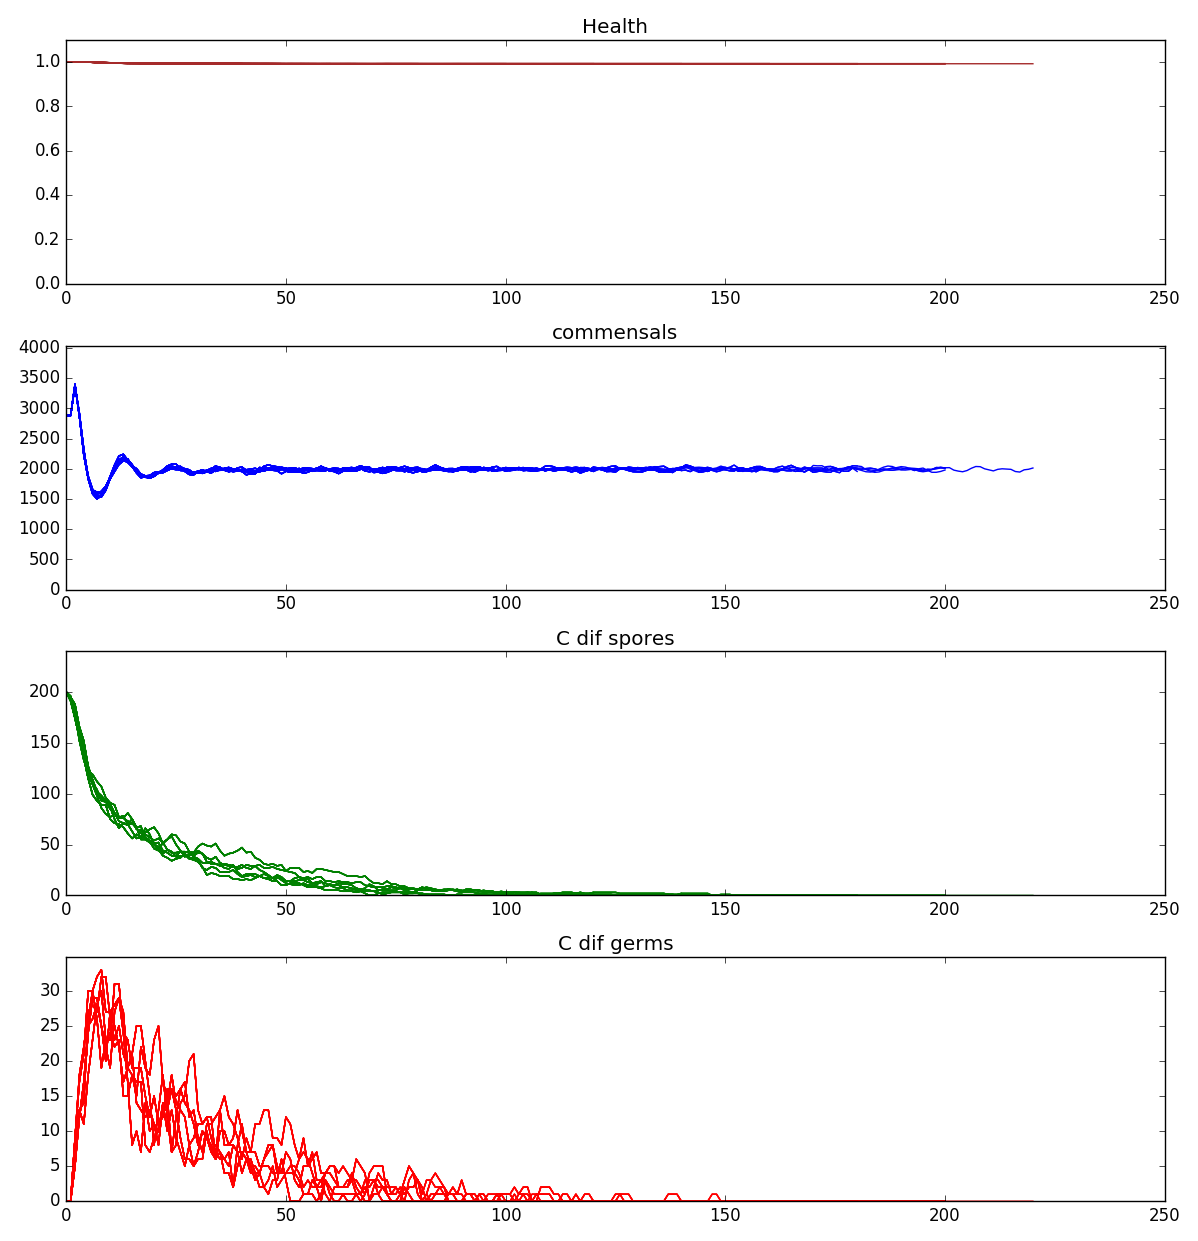
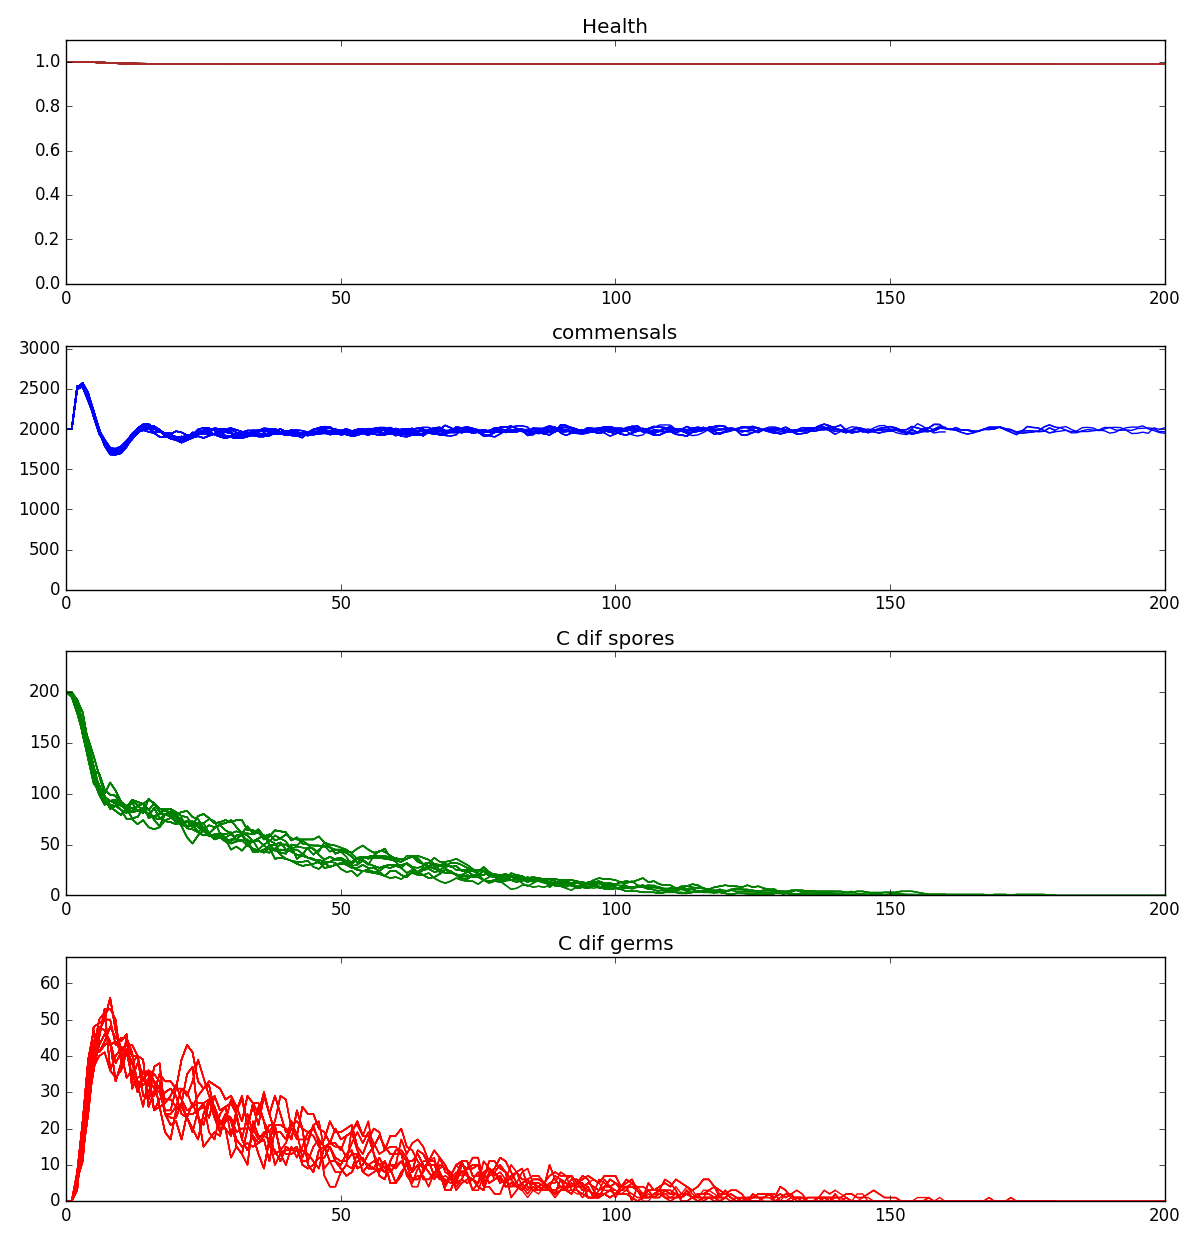
Fixed one critical bug with cells.py and retook data.

diff --git a/src/cells.py b/src/cells.py
@@ -136,7 +136,7 @@ class Cdif_Spore(Cell):
         return (nutrient, TCA, DCA, toxin)
     
     def replicate(self):
-        if self.TCA > cdif_germinate_threshold and self.energy > cdif_sporulate_threshold:
+        if self.TCA > cdif_germinate_threshold:# and self.energy > cdif_sporulate_threshold:
             spawn = Cdif_Veg(self.energy)
             Gut.gut.spawn(spawn, Gut.gut.positionOf[self], neighbors=False)
             self.energy = -10
